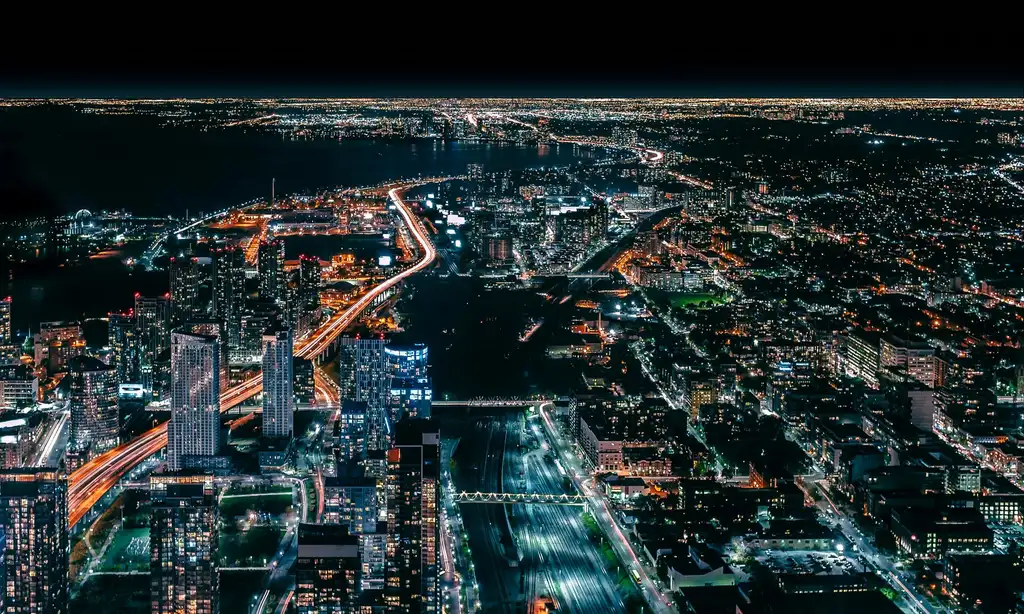
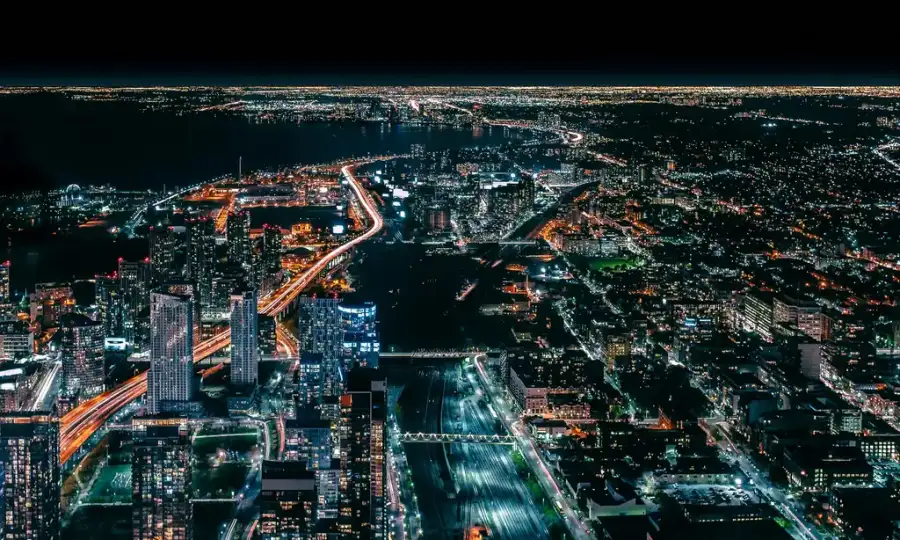
SEO: alt text Footer/Hero, width/height hero, compression 01-nuit.webp
- Footer: alt='Instagram' et alt='Facebook' sur les icones sociales (etaient vides)
- HeroCinematic: alt descriptif + width/height 1920x1080 sur la photo LCP
- HeroCinematic: width/height 1920x1080 sur les photos lazy (photos 2-4)
- 01-nuit.webp: 124KB -> 85KB (900px q60 WebP, aucune difference visuelle)

diff --git a/src/components/Footer.tsx b/src/components/Footer.tsx
@@ -21,7 +21,7 @@ export default function Footer() {
               {/* eslint-disable-next-line @next/next/no-img-element */}
               <img
                 src="https://hdzzfhjnjcblcejcpnkw.supabase.co/storage/v1/object/public/photos/brand/instagram.png"
-                alt=""
+                alt="Instagram"
                 width={16}
                 height={16}
                 className="h-4 w-4"
@@ -38,7 +38,7 @@ export default function Footer() {
               {/* eslint-disable-next-line @next/next/no-img-element */}
               <img
                 src="https://hdzzfhjnjcblcejcpnkw.supabase.co/storage/v1/object/public/photos/brand/facebook.png"
-                alt=""
+                alt="Facebook"
                 width={16}
                 height={16}
                 className="h-4 w-4"

diff --git a/src/components/HeroCinematic.tsx b/src/components/HeroCinematic.tsx
@@ -75,7 +75,9 @@ export default function HeroCinematic() {
           {/* eslint-disable-next-line @next/next/no-img-element */}
           <img
             src={PHOTOS[0]}
-            alt=""
+            alt="Vue panoramique depuis un avion en vol"
+            width={1920}
+            height={1080}
             fetchPriority="high"
             loading="eager"
             decoding="async"
@@ -89,6 +91,8 @@ export default function HeroCinematic() {
               key={src}
               src={imgsReady ? src : undefined}
               alt=""
+              width={1920}
+              height={1080}
               decoding="async"
               className="absolute inset-0 w-full h-full object-cover object-center"
               style={{ opacity: layerOpacity(i + 1) }}
